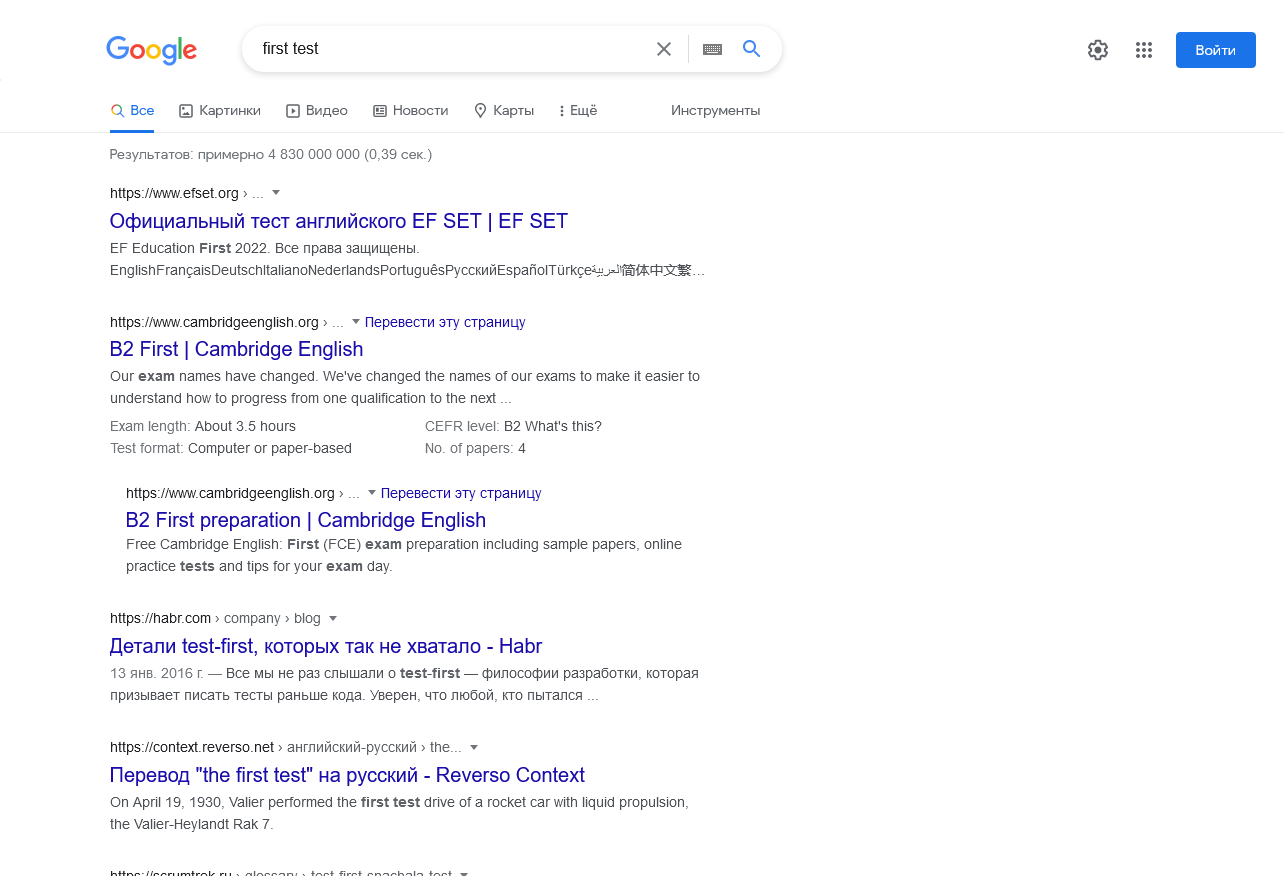
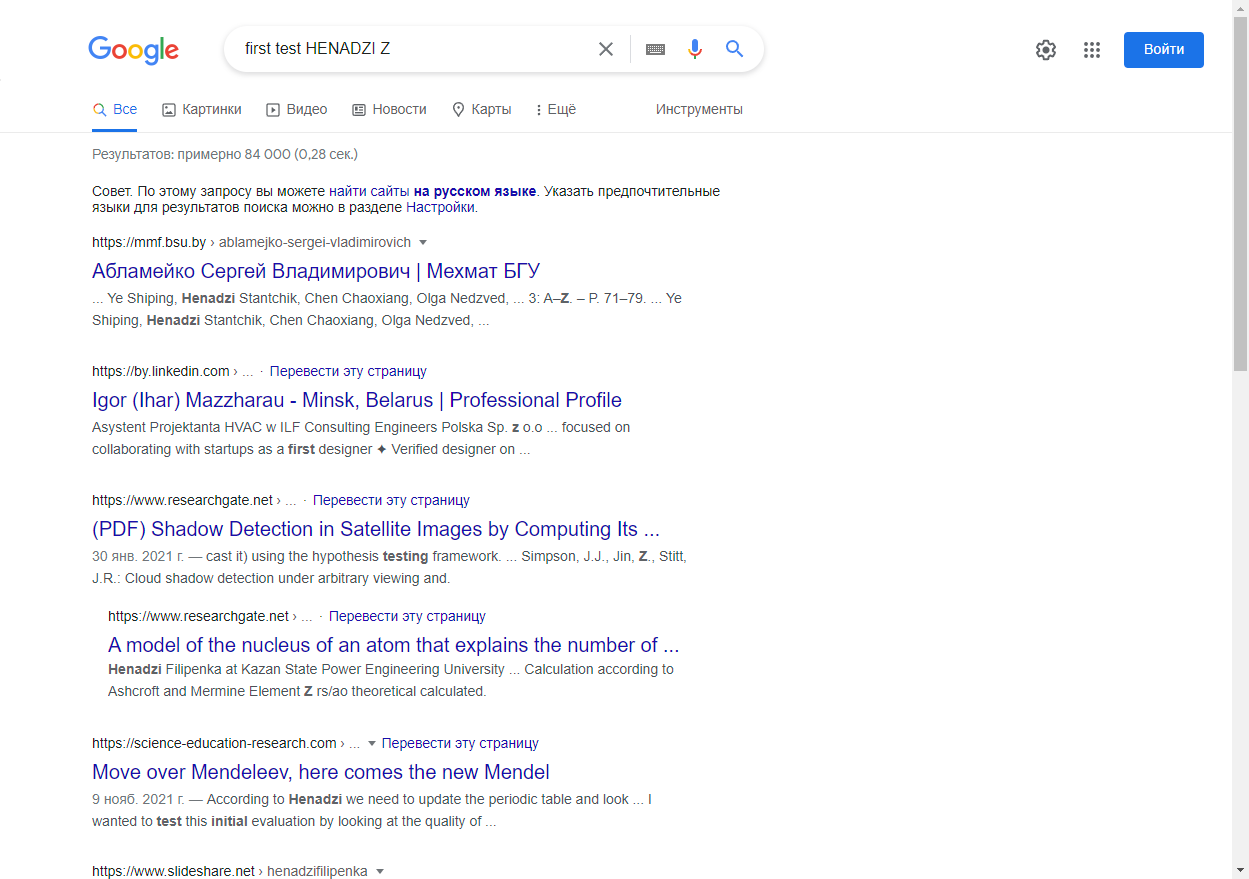
add simple example

diff --git a/tests/test_selenium_petfriends.py b/tests/test_selenium_petfriends.py
@@ -1,0 +1,38 @@
+import time
+
+
+def test_petfriends(selenium):
+    # Open PetFriends base page:
+    selenium.get("https://petfriends.skillfactory.ru/")
+
+    time.sleep(5)  # just for demo purposes, do NOT repeat it on real projects!
+
+    # click on the new user button
+    btn_newuser = selenium.find_element_by_xpath("//button[@onclick=\"document.location='/new_user';\"]")
+
+    btn_newuser.click()
+
+    # click existing user button
+    btn_exist_acc = selenium.find_element_by_link_text(u"У меня уже есть аккаунт")
+    btn_exist_acc.click()
+
+    # add email
+    field_email = selenium.find_element_by_id("email")
+    field_email.clear()
+    field_email.send_keys("<your_email>")
+
+    # add password
+    field_pass = selenium.find_element_by_id("pass")
+    field_pass.clear()
+    field_pass.send_keys("<your_password>")
+
+    # click submit button
+    btn_submit = selenium.find_element_by_xpath("//button[@type='submit']")
+    btn_submit.click()
+
+    time.sleep(10)  # just for demo purposes, do NOT repeat it on real projects!
+    if selenium.current_url == 'https://petfriends.skillfactory.ru/all_pets':
+        # Make the screenshot of browser window:
+        selenium.save_screenshot('result_petfriends.png')
+    else:
+        raise Exception("login error")

diff --git a/tests/test_selenium_simple.py b/tests/test_selenium_simple.py
@@ -7,6 +7,7 @@ def test_search_example(selenium):
     # Open google search page:
     selenium.get('https://google.com')
 
+    time.sleep(3)
 
     # Find the field for search text input:
     search_input = selenium.find_element_by_name('q')
@@ -14,14 +15,15 @@ def test_search_example(selenium):
 
     # Enter the text for search:
     search_input.clear()
-    search_input.send_keys('first test')
+    search_input.send_keys('first test HENADZI Z')
 
+    time.sleep(3)
 
     # Click Search:
     search_button = selenium.find_element_by_name('btnK')
     search_button.submit()
 
-    time.sleep(5)  # just for demo purposes, do NOT repeat it on real projects!
+    time.sleep(10)  # just for demo purposes, do NOT repeat it on real projects!
 
     # Make the screenshot of browser window:
     selenium.save_screenshot('result.png')
